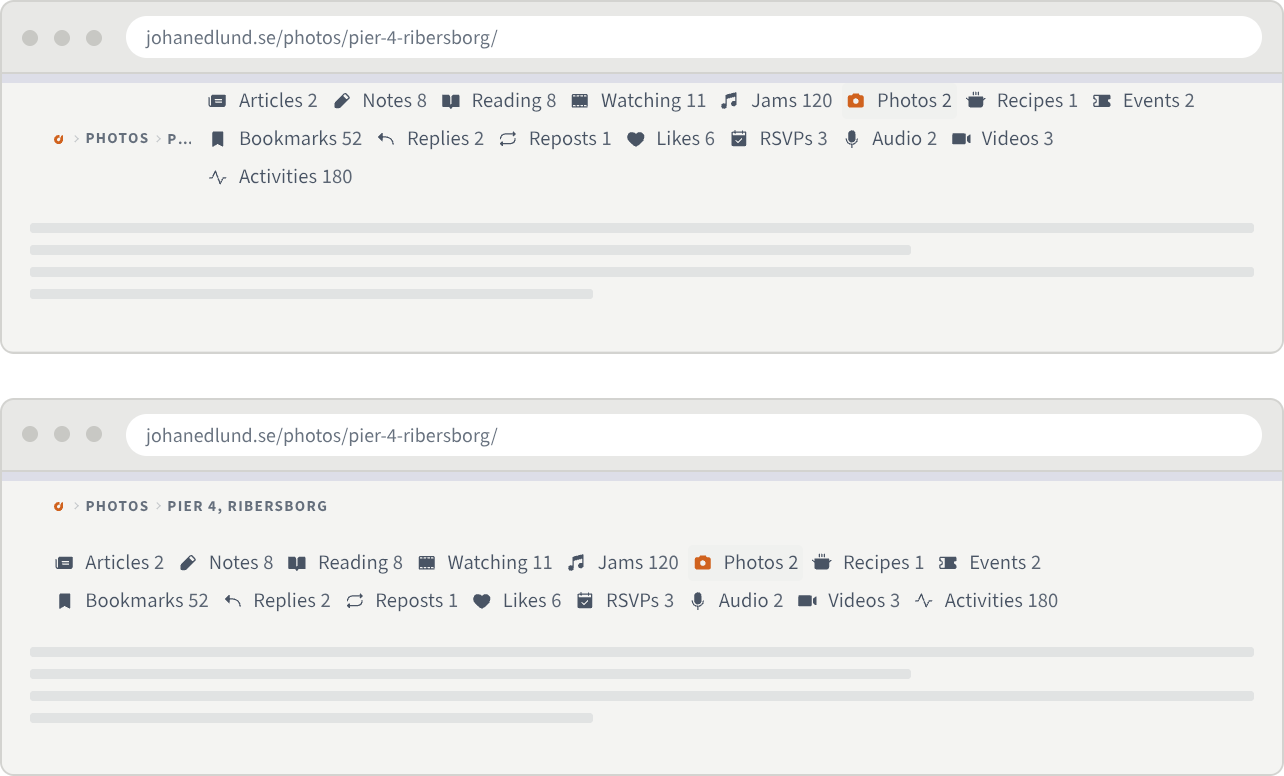
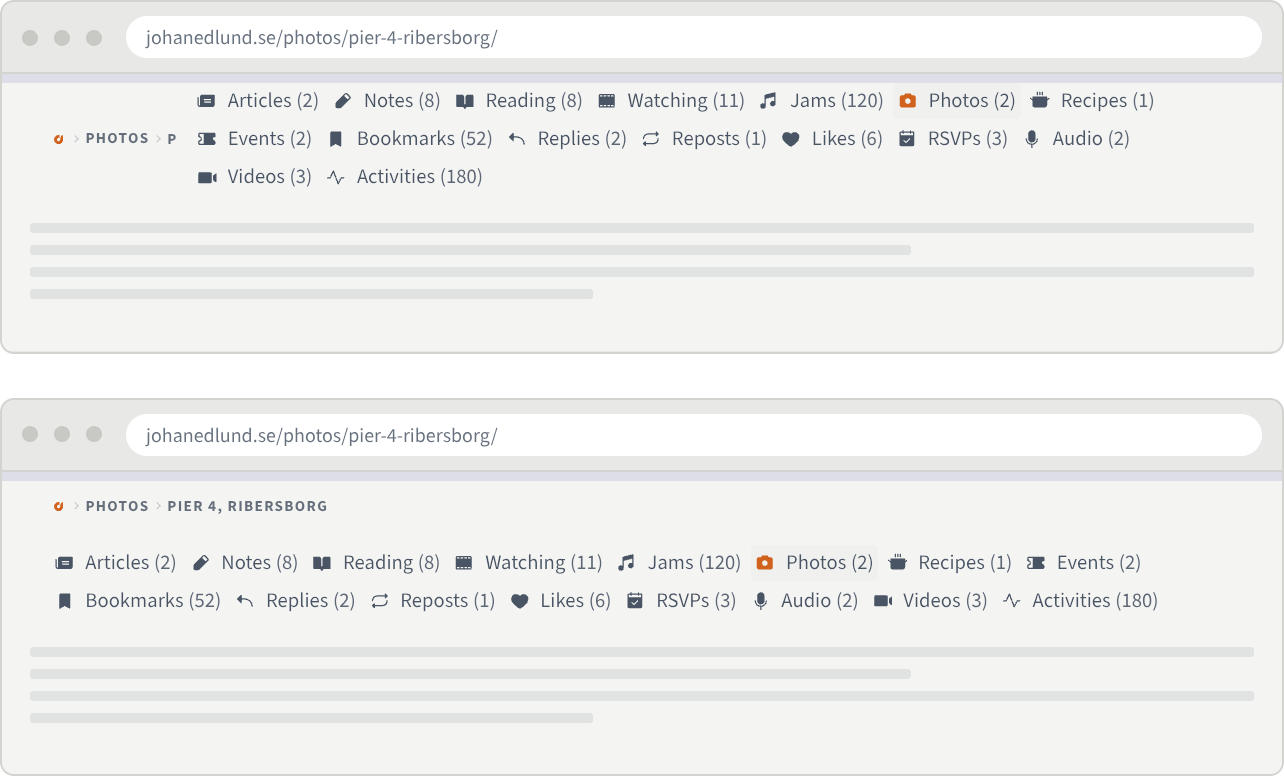
No-JS menu: counts in parentheses, Articles (2)

Changed region(s): [[0.1246, 0.7113, 0.9034, 0.8041], [0.1558, 0.1237, 0.9346, 0.1856], [0.1558, 0.2165, 0.3738, 0.2474]]

diff --git a/src/assets/css/local/main-nav.css b/src/assets/css/local/main-nav.css
@@ -285,6 +285,15 @@ A "Menu ⌄" button drops a two-column, table-of-contents-style panel of every p
 .mainnav > .megamenu:first-child .megamenu-dots {
   display: none;
 }
+
+/* Without the leader dots, a bare count runs into the next pill's label; parentheses mark it as the count. */
+.mainnav > .megamenu:first-child .megamenu-count::before {
+  content: '(';
+}
+
+.mainnav > .megamenu:first-child .megamenu-count::after {
+  content: ')';
+}
 }
 
 @layer blocks {

diff --git a/src/wiki/The main menu.md b/src/wiki/The main menu.md
@@ -59,11 +59,11 @@ For one day the width came from the dev grid instead: five columns wide, snapped
 
 ### The no-JS layout
 
-Without the button the panel keeps its `<ul>` but becomes a row of wrapping pills in normal flow, on a line of its own under the breadcrumb and left-aligned with it — two rows at 1280px, six at 375px. Until 2026-11-13 the pills were right-aligned beside the breadcrumb on a wide screen, which left them starting at a different point on every row. The leader dots are dropped (an empty flexible spacer only reads as a leader when every row shares a width) and the padding tightens.
+Without the button the panel keeps its `<ul>` but becomes a row of wrapping pills in normal flow, on a line of its own under the breadcrumb and left-aligned with it — two rows at 1280px, seven at 375px. Each count is in parentheses, Articles (2), drawn by `::before` and `::after` on `.megamenu-count`: without the leader dots a bare number runs into the next pill's label. Until 2026-11-13 the pills were right-aligned beside the breadcrumb on a wide screen, which left them starting at a different point on every row. The leader dots are dropped (an empty flexible spacer only reads as a leader when every row shares a width) and the padding tightens.
 
 <figure class="feature" data-wiki-mockup>
-  <img eleventy:formats="webp,png" src="/assets/images/wiki/main-menu-no-js.png" alt="Two browser windows side by side, both without JavaScript. In both, the post-type links sit under the breadcrumb, left-aligned with it: two lines of pills at 1280 pixels, six at 375 pixels." width="1724" height="446">
-  <figcaption>The fallback without JavaScript at both ends: 1280px on the left, in two rows, and 375px on the right, in six. No button, so the panel is a plain row of pills in normal flow under the breadcrumb — left-aligned, no leader dots, and wrapping to fit.</figcaption>
+  <img eleventy:formats="webp,png" src="/assets/images/wiki/main-menu-no-js.png" alt="Two browser windows side by side, both without JavaScript. In both, the post-type links sit under the breadcrumb, left-aligned with it: two lines of pills at 1280 pixels, seven at 375 pixels, each count in parentheses." width="1724" height="476">
+  <figcaption>The fallback without JavaScript at both ends: 1280px on the left, in two rows, and 375px on the right, in seven. No button, so the panel is a plain row of pills in normal flow under the breadcrumb — left-aligned, no leader dots, and wrapping to fit.</figcaption>
 </figure>
 
 Before that, the panel kept its dropdown layout: two columns of `minmax(15rem, 1fr)` inside a header row with nowhere near 30rem to give, so `auto-fit` collapsed to one column and the header became a sixteen-row list that pushed the page content most of a screen down.
